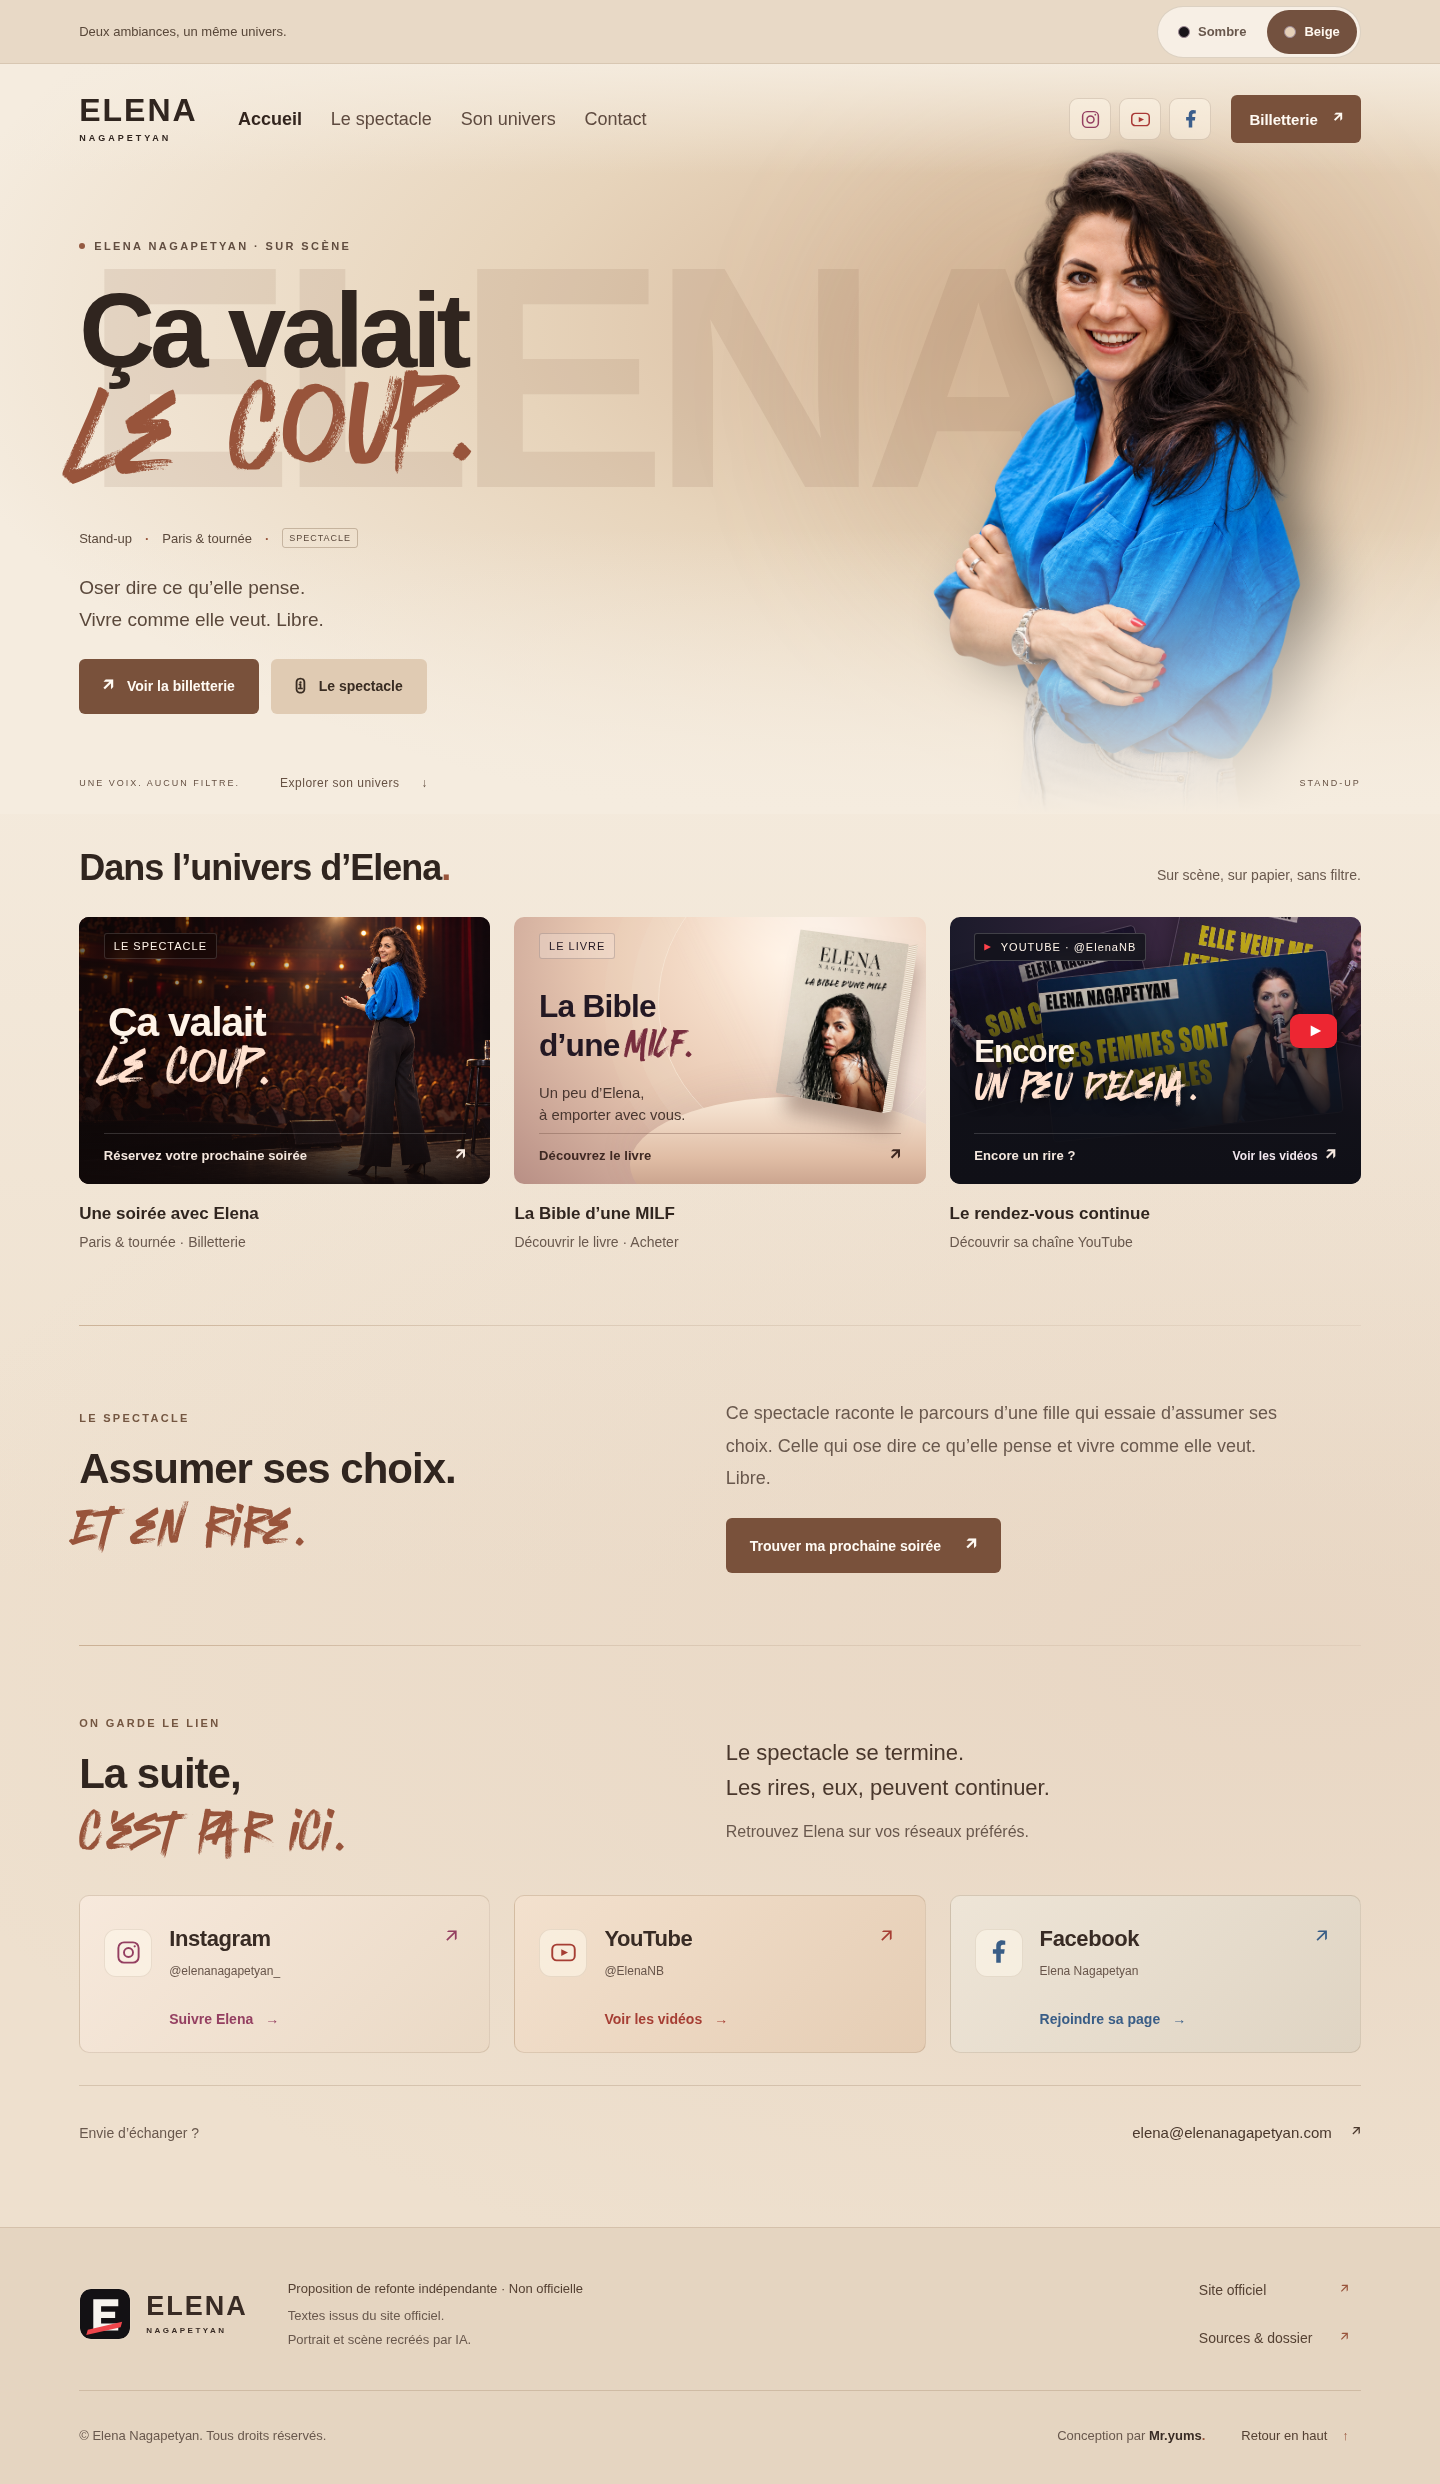
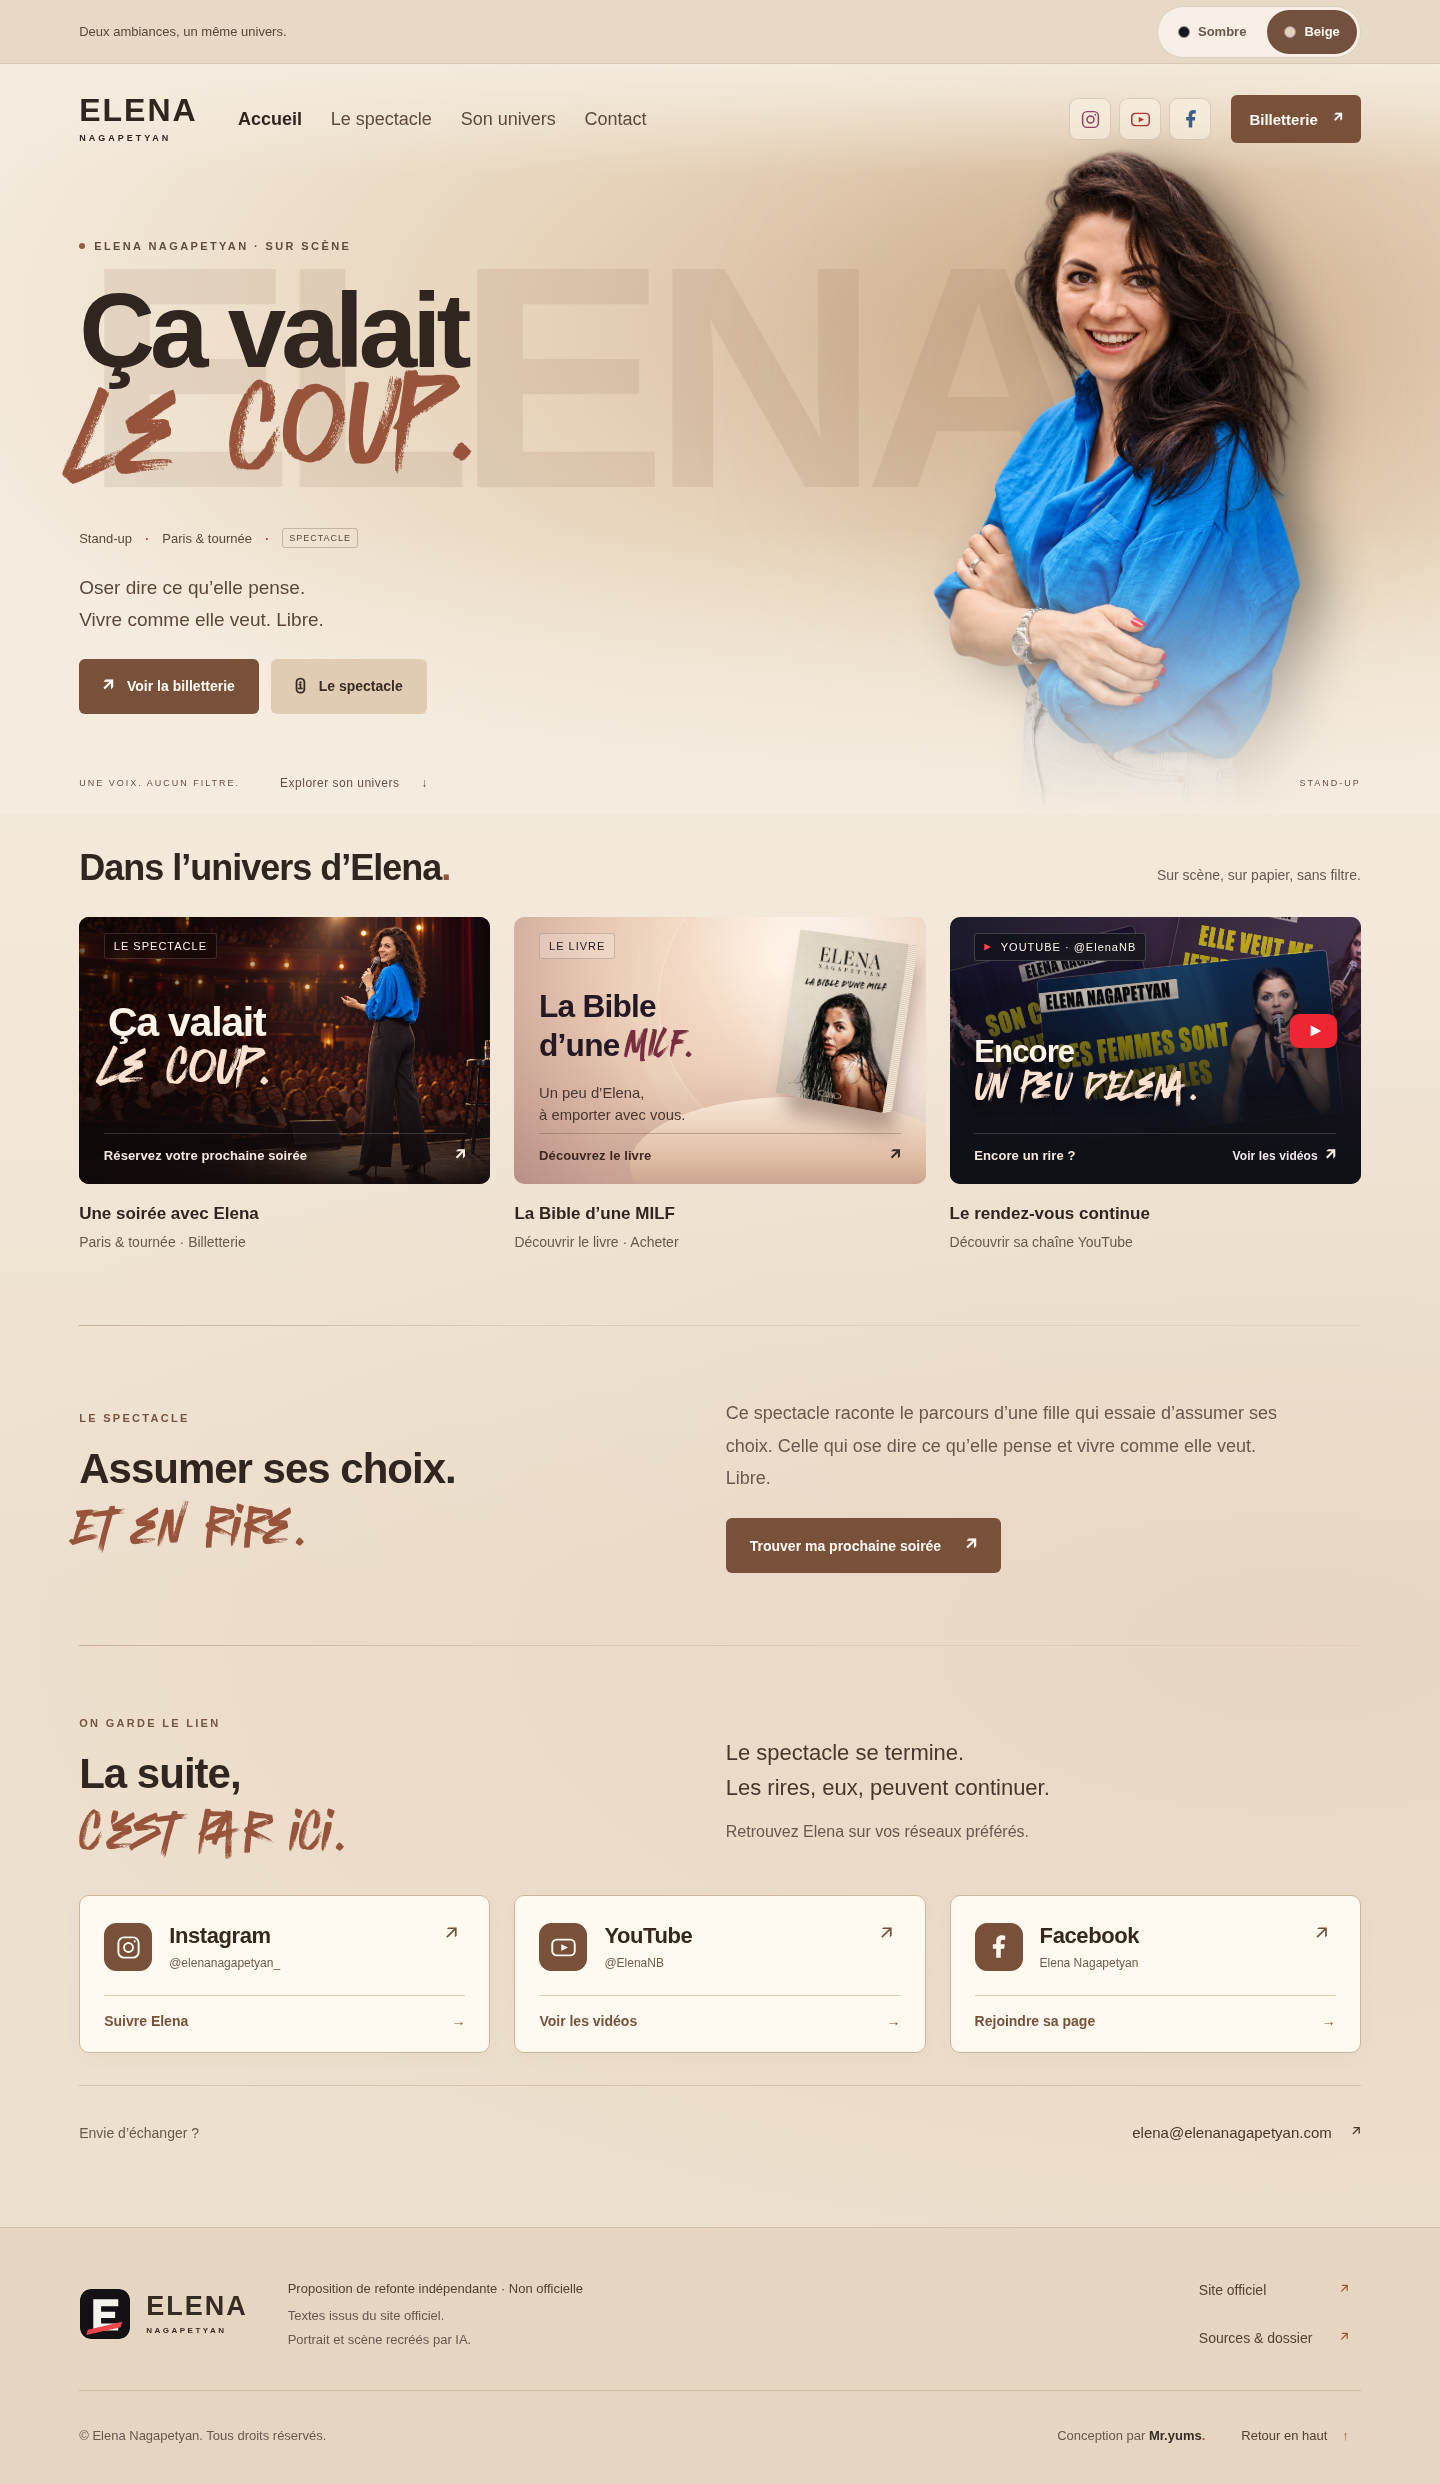
[Sol · GPT-6 · 19/09/2026] Recomposer les cartes sociales du thème beige

Changed region(s): [[0.0312, 0.744, 0.9688, 0.837]]

diff --git a/site/style.css b/site/style.css
@@ -297,11 +297,13 @@ html[data-theme="beige"]{color-scheme:light;--muted:#69584d;--surface:#f0e4d5}
 [data-theme="beige"] .story::before,[data-theme="beige"] .contact::before{background:linear-gradient(90deg,#986b4166,#76533226 35%,#76533212)}
 [data-theme="beige"] .story .eyebrow,[data-theme="beige"] .contact .eyebrow{color:#745641}
 [data-theme="beige"] .contact-intro{color:#49372c}
-[data-theme="beige"] .socials .social-link{--social-color:#943f61;background:linear-gradient(135deg,#f7e9dc,#ead9c5);border-color:#80634333;color:#382b24}
-[data-theme="beige"] .socials .social-youtube{--social-color:#a63e34;background:linear-gradient(135deg,#f3e1ce,#e5cdb4)}
-[data-theme="beige"] .socials .social-facebook{--social-color:#395d86;background:linear-gradient(135deg,#eee5d7,#dfd4c3)}
-[data-theme="beige"] .social-icon{background:#fff9ed88;border-color:#76533222}[data-theme="beige"] .social-handle{color:#68554a}
-[data-theme="beige"] .socials .social-link:hover{color:#30251f;border-color:var(--social-color)}
+[data-theme="beige"] .socials .social-link{--social-color:#79513b;background:#fff9f0;border:1px solid #cdb79c;color:#35271e;box-shadow:0 5px 18px #63472809;transition:transform .2s,border-color .2s,box-shadow .2s,background .2s}
+[data-theme="beige"] .social-icon{background:#79513b;border:1px solid #79513b;color:#fff9f0;border-radius:12px}
+[data-theme="beige"] .social-name{color:#35271e}[data-theme="beige"] .social-handle{color:#705c4b}
+[data-theme="beige"] .social-arrow{color:#79513b}
+[data-theme="beige"] .social-invite{grid-column:1/-1;border-top:1px solid #decbb4;padding-top:17px;margin-top:22px;color:#79513b;justify-content:space-between;font-weight:600}
+[data-theme="beige"] .socials .social-link:hover,[data-theme="beige"] .socials .social-link:focus-visible{background:#fffcf7;color:#35271e;border-color:#997457;box-shadow:0 9px 24px #63472814}
+@media(hover:none){[data-theme="beige"] .socials .social-link:active{background:#f3e5d2}}
 [data-theme="beige"] .contact-mail{border-color:#76533233;color:#69584d}[data-theme="beige"] .contact .email{color:#49372c}
 [data-theme="beige"] .site-footer{background:#e5d5c1;border-color:#76533226;color:#69584d}
 [data-theme="beige"] .footer-identity .brand,[data-theme="beige"] .footer-signature strong{color:#382b24}

diff --git a/site/index.html b/site/index.html
@@ -1,5 +1,5 @@
 <!doctype html>
-<html lang="fr"><head><meta charset="utf-8"><meta name="viewport" content="width=device-width,initial-scale=1"><meta name="robots" content="noindex,nofollow"><meta name="description" content="Une proposition créative autour de l’univers d’Elena Nagapetyan."><title>Elena — Ça valait le coup · Concept</title><link rel="icon" type="image/png" sizes="32x32" href="assets/favicon-32.png"><link rel="icon" type="image/svg+xml" href="assets/favicon.svg"><link rel="apple-touch-icon" sizes="180x180" href="assets/apple-touch-icon.png"><script src="theme.js?v=1"></script><link rel="stylesheet" href="style.css?v=portrait-16"></head>
+<html lang="fr"><head><meta charset="utf-8"><meta name="viewport" content="width=device-width,initial-scale=1"><meta name="robots" content="noindex,nofollow"><meta name="description" content="Une proposition créative autour de l’univers d’Elena Nagapetyan."><title>Elena — Ça valait le coup · Concept</title><link rel="icon" type="image/png" sizes="32x32" href="assets/favicon-32.png"><link rel="icon" type="image/svg+xml" href="assets/favicon.svg"><link rel="apple-touch-icon" sizes="180x180" href="assets/apple-touch-icon.png"><script src="theme.js?v=1"></script><link rel="stylesheet" href="style.css?v=beige-social-17"></head>
 <body>
 <div class="theme-preview"><span>Deux ambiances, un même univers.</span><div class="theme-picker" role="group" aria-label="Ambiance du site"><button type="button" data-theme-choice="dark" aria-pressed="true"><i class="swatch-dark" aria-hidden="true"></i>Sombre</button><button type="button" data-theme-choice="beige" aria-pressed="false"><i class="swatch-beige" aria-hidden="true"></i>Beige</button></div></div>
 <a class="skip" href="#spectacle">Aller au contenu</a>

diff --git a/docs/VALIDATION.md b/docs/VALIDATION.md
@@ -52,3 +52,7 @@ Portrait du hero retourné horizontalement via CSS ; prénom de fond décalé ve
 ## Livraison Docker 1.1.0 et captures — 19 septembre 2026
 
 Image Docker 1.1.0 reconstruite avec le site actuel (deux thèmes, portrait retourné), conteneur local sain sur 8796. HTML/CSS/JS servis identiques aux sources publiées. Captures complètes depuis Docker : mobile tactile 390×844, tablette tactile 820×1180, ordinateur 1440×1000, dans les deux ambiances ; aucune erreur JavaScript ni débordement horizontal. Archive Linux amd64 exportée avec empreintes SHA256 vérifiées et Compose de téléchargement.
+
+## Cartes sociales beiges — 19 septembre 2026
+
+Palette uniforme ivoire/caramel, icônes contrastées et CTA séparé par un filet. Modification limitée au thème beige. Rendu inspecté à 390 et 1440 px ; contrôle sans débordement à 320, 390, 820, 1440 et 3440 px. Captures beige mobile/tablette/PC actualisées.

diff --git a/README.md b/README.md
@@ -23,7 +23,7 @@ Les portraits et scènes sont des interprétations générées par IA, pas des p
 
 ## Docker prêt à télécharger
 
-La [release v1.1.0](https://github.com/Mr-yums/elena-concept/releases/tag/v1.1.0) contient l’image Linux amd64, son empreinte SHA256 et le fichier Compose. Les deux ambiances et les dernières retouches sont incluses.
+La [release v1.1.1](https://github.com/Mr-yums/elena-concept/releases/tag/v1.1.1) contient l’image Linux amd64, son empreinte SHA256 et le fichier Compose. Les deux ambiances et les dernières retouches sont incluses.
 
 ## Lancer avec Docker
 
